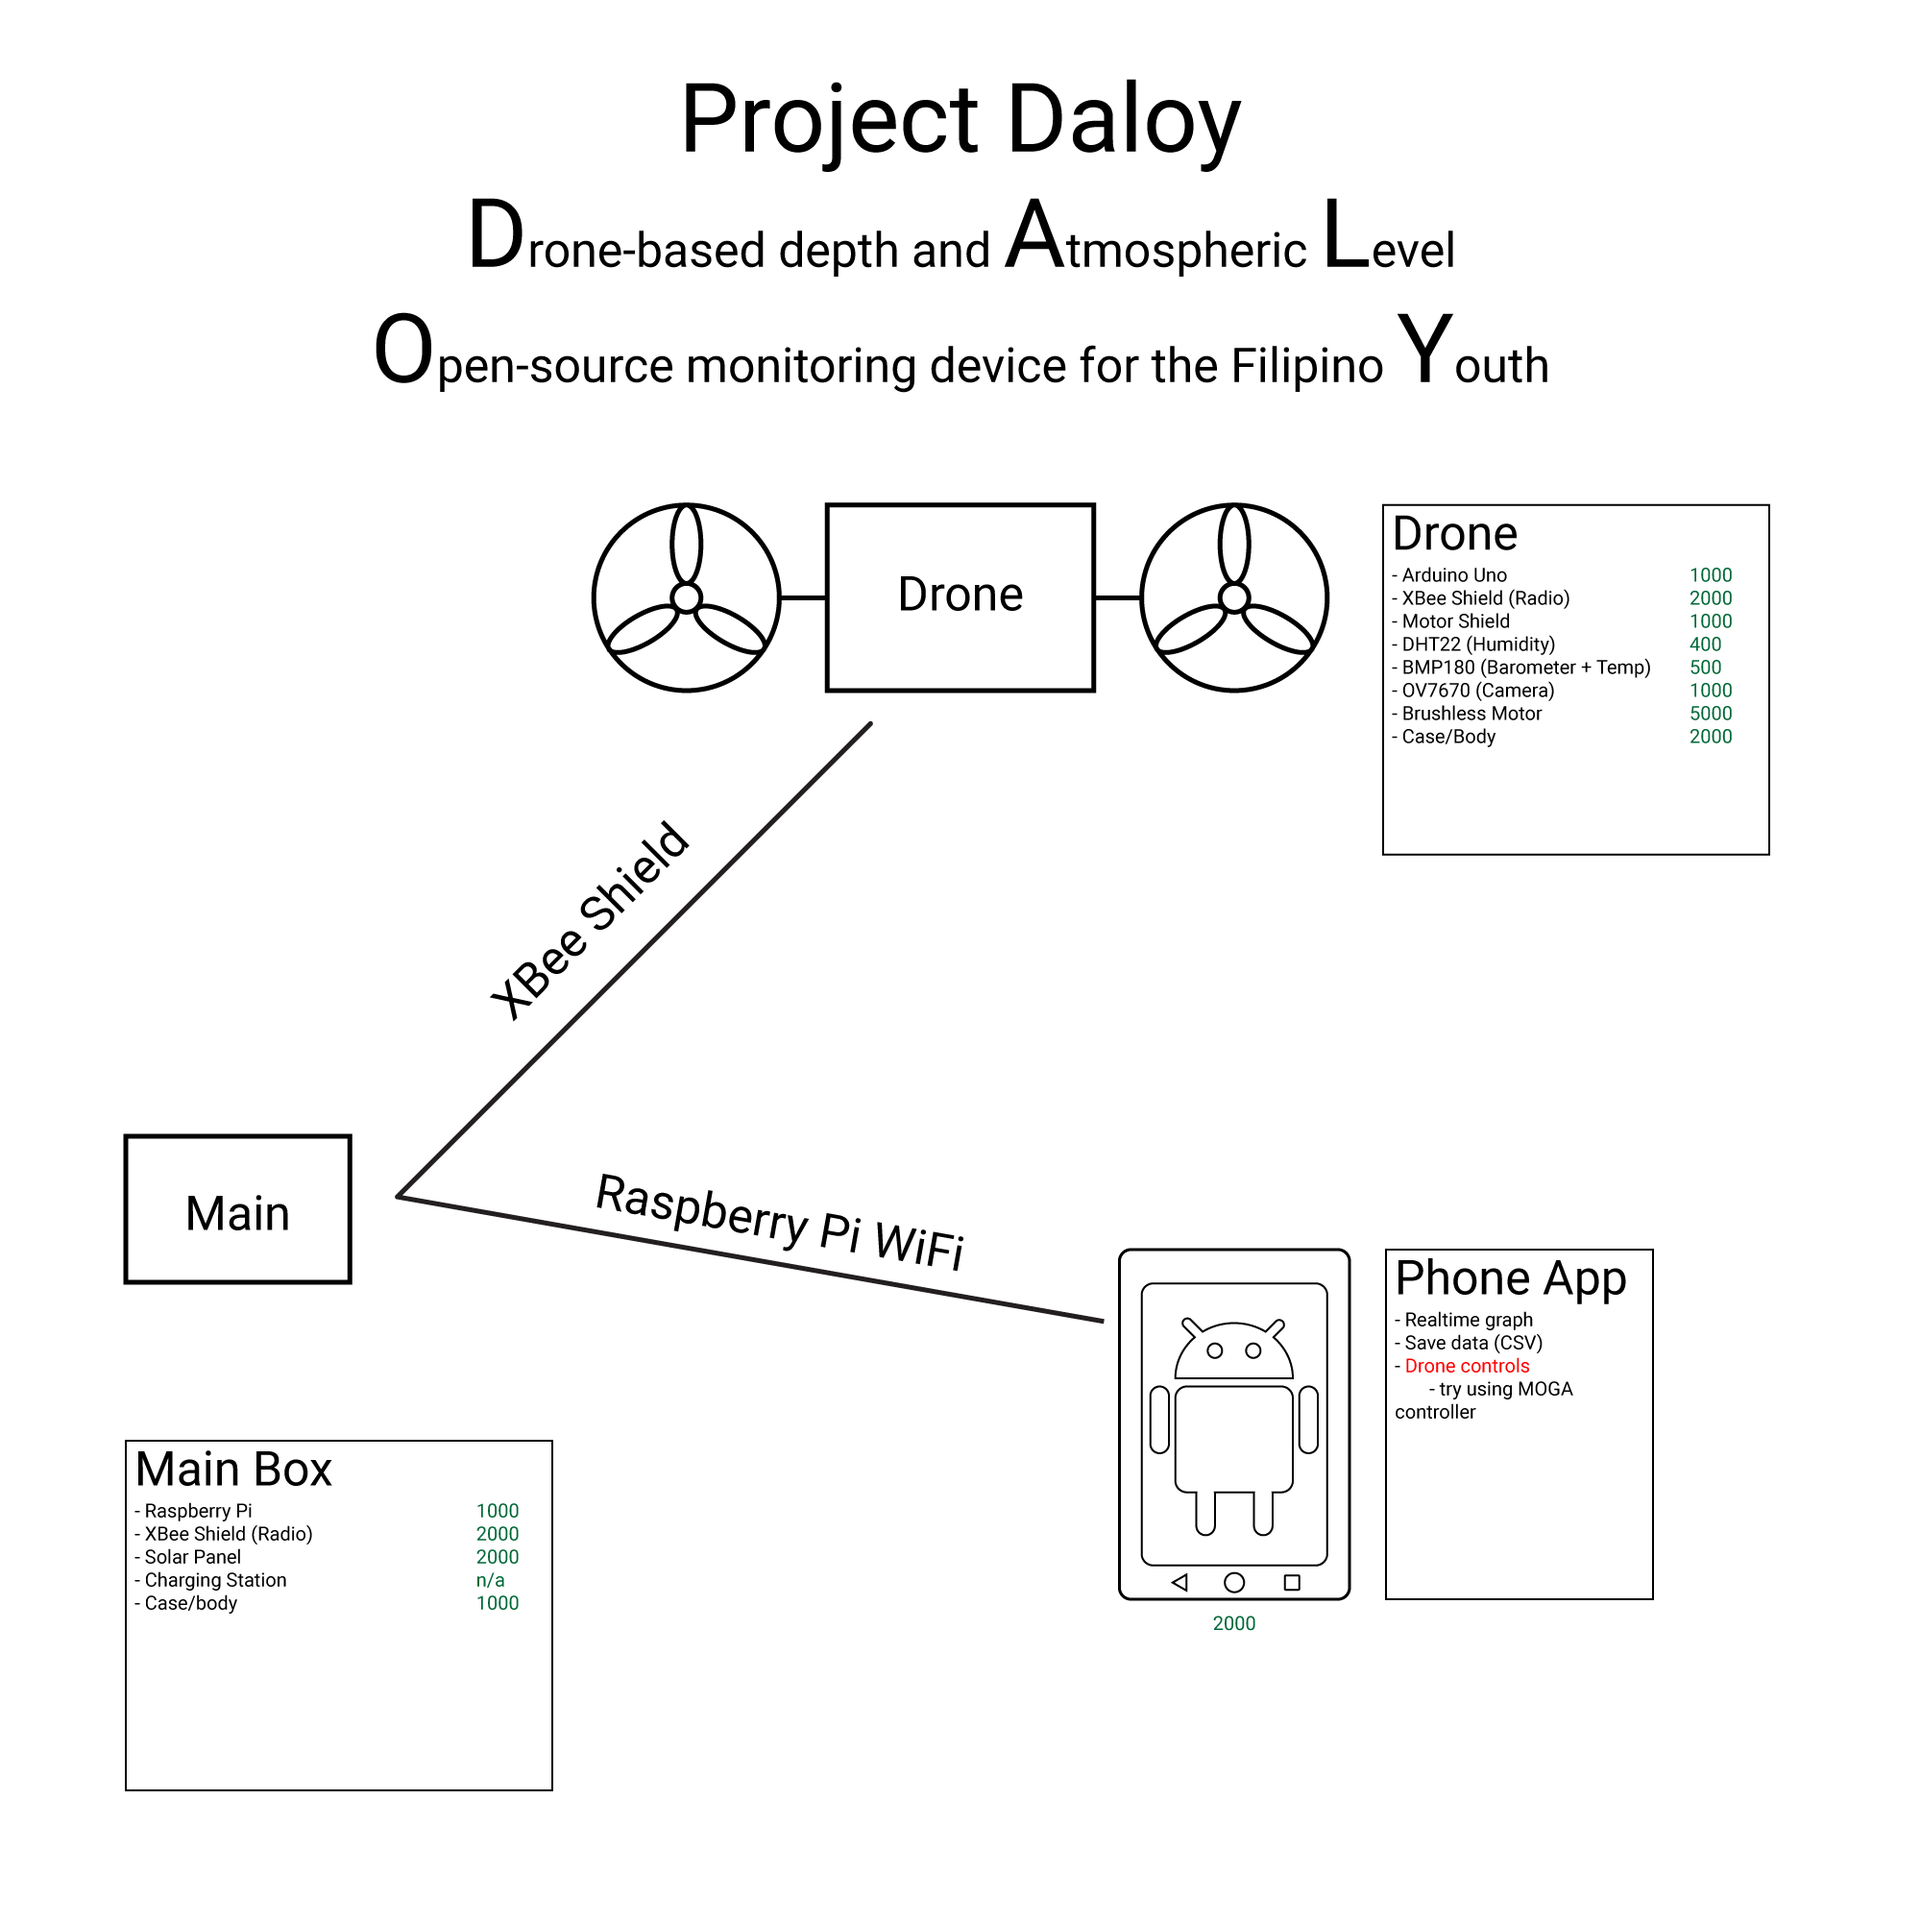
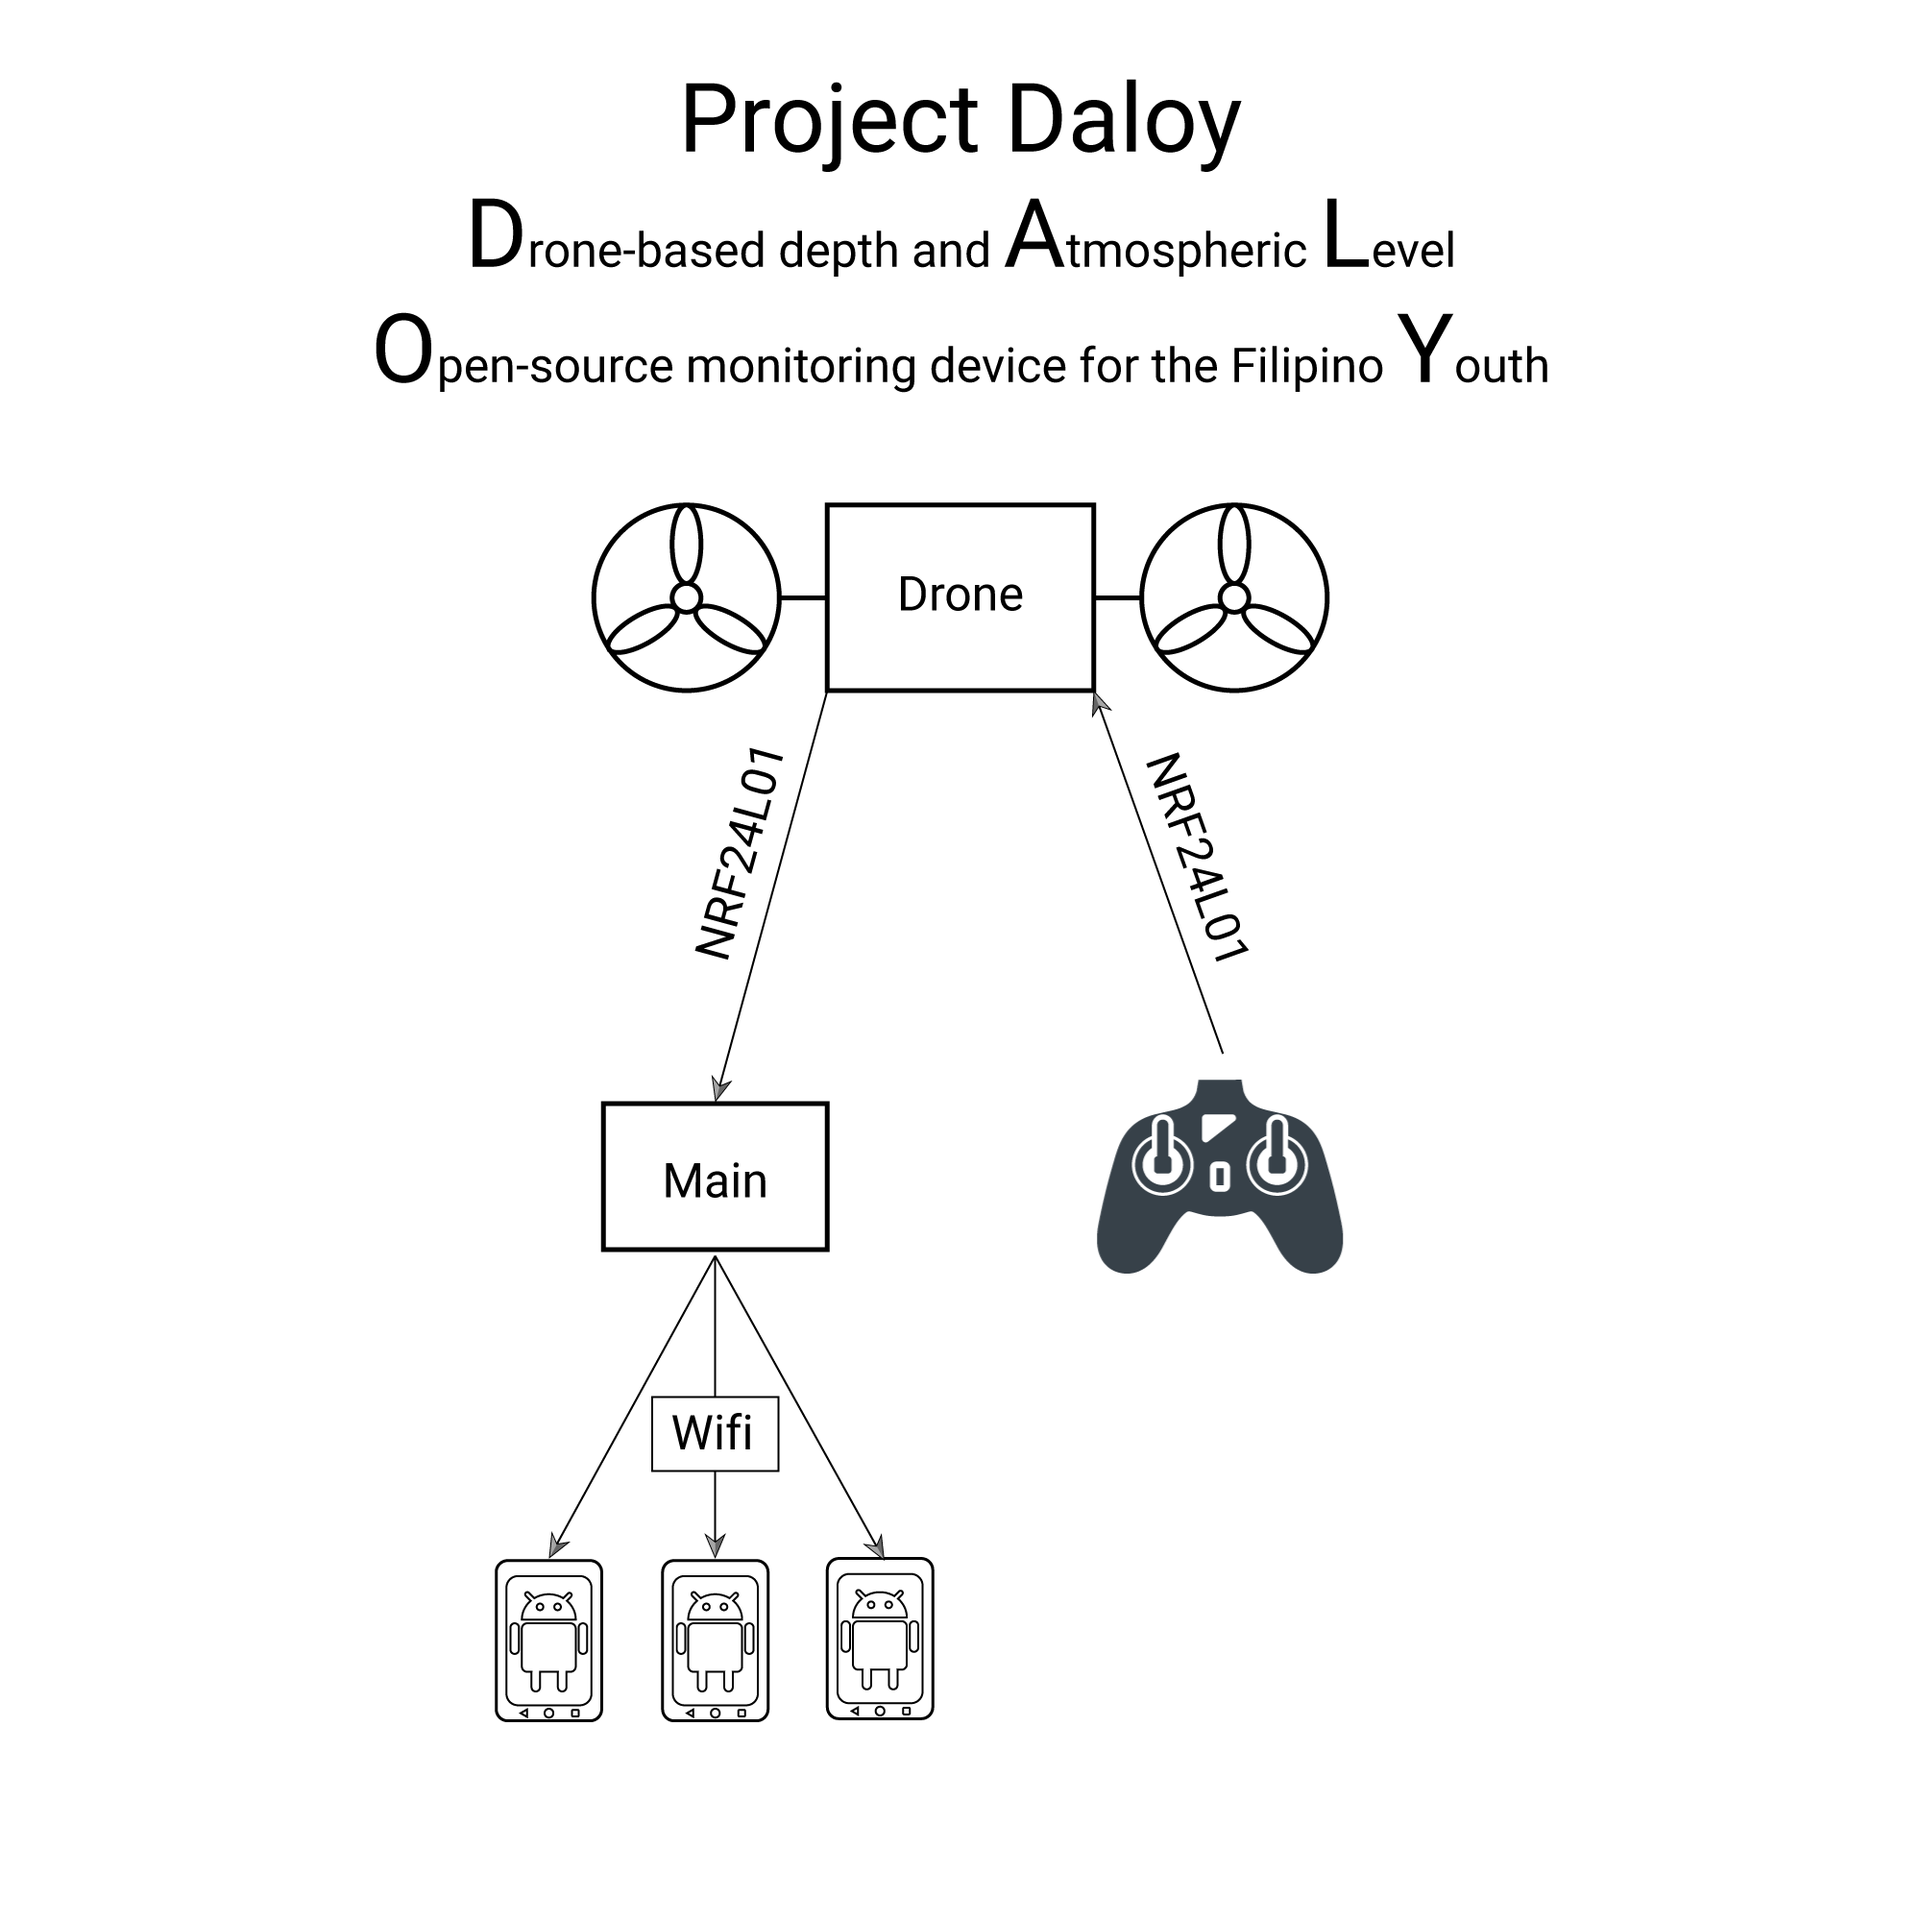
Updated picture to reflect changes to project plan

diff --git a/README.md b/README.md
@@ -168,35 +168,5 @@
 
 # Total: 22010
 
-<h1>Software/Libraries used</h1>
-<table>
-	<tr>
-		<td colspan="2" style="text-align: center"><strong>Drone Box</strong></td>
-	</tr>
-	<tr>
-		<td><strong>Library</strong></td>
-		<td><strong>Source</strong></td>
-	</tr>
-	<tr>
-		<td>Arduino.h</td>
-		<td>Arduino built-in</td>
-	</tr>
-	<tr>
-		<td>Wire.h</td>
-		<td>Arduino built-in</td>
-	</tr>
-	<tr>
-		<td>Adafruit_Sensor.h</td>
-		<td>Adafruit BMP085 Library</td>
-	</tr>
-	<tr>
-		<td>Adafruit_BMP085_U.h</td>
-		<td>Adafruit BMP085 Unified</td>
-	</tr>
-	<tr>
-		<td>DHT.h</td>
-		<td>DHT Sensor Library</td>
-	</tr>
-</table>
 <h1>Proposed Design</h1>
 ![](Project Daloy.png)
